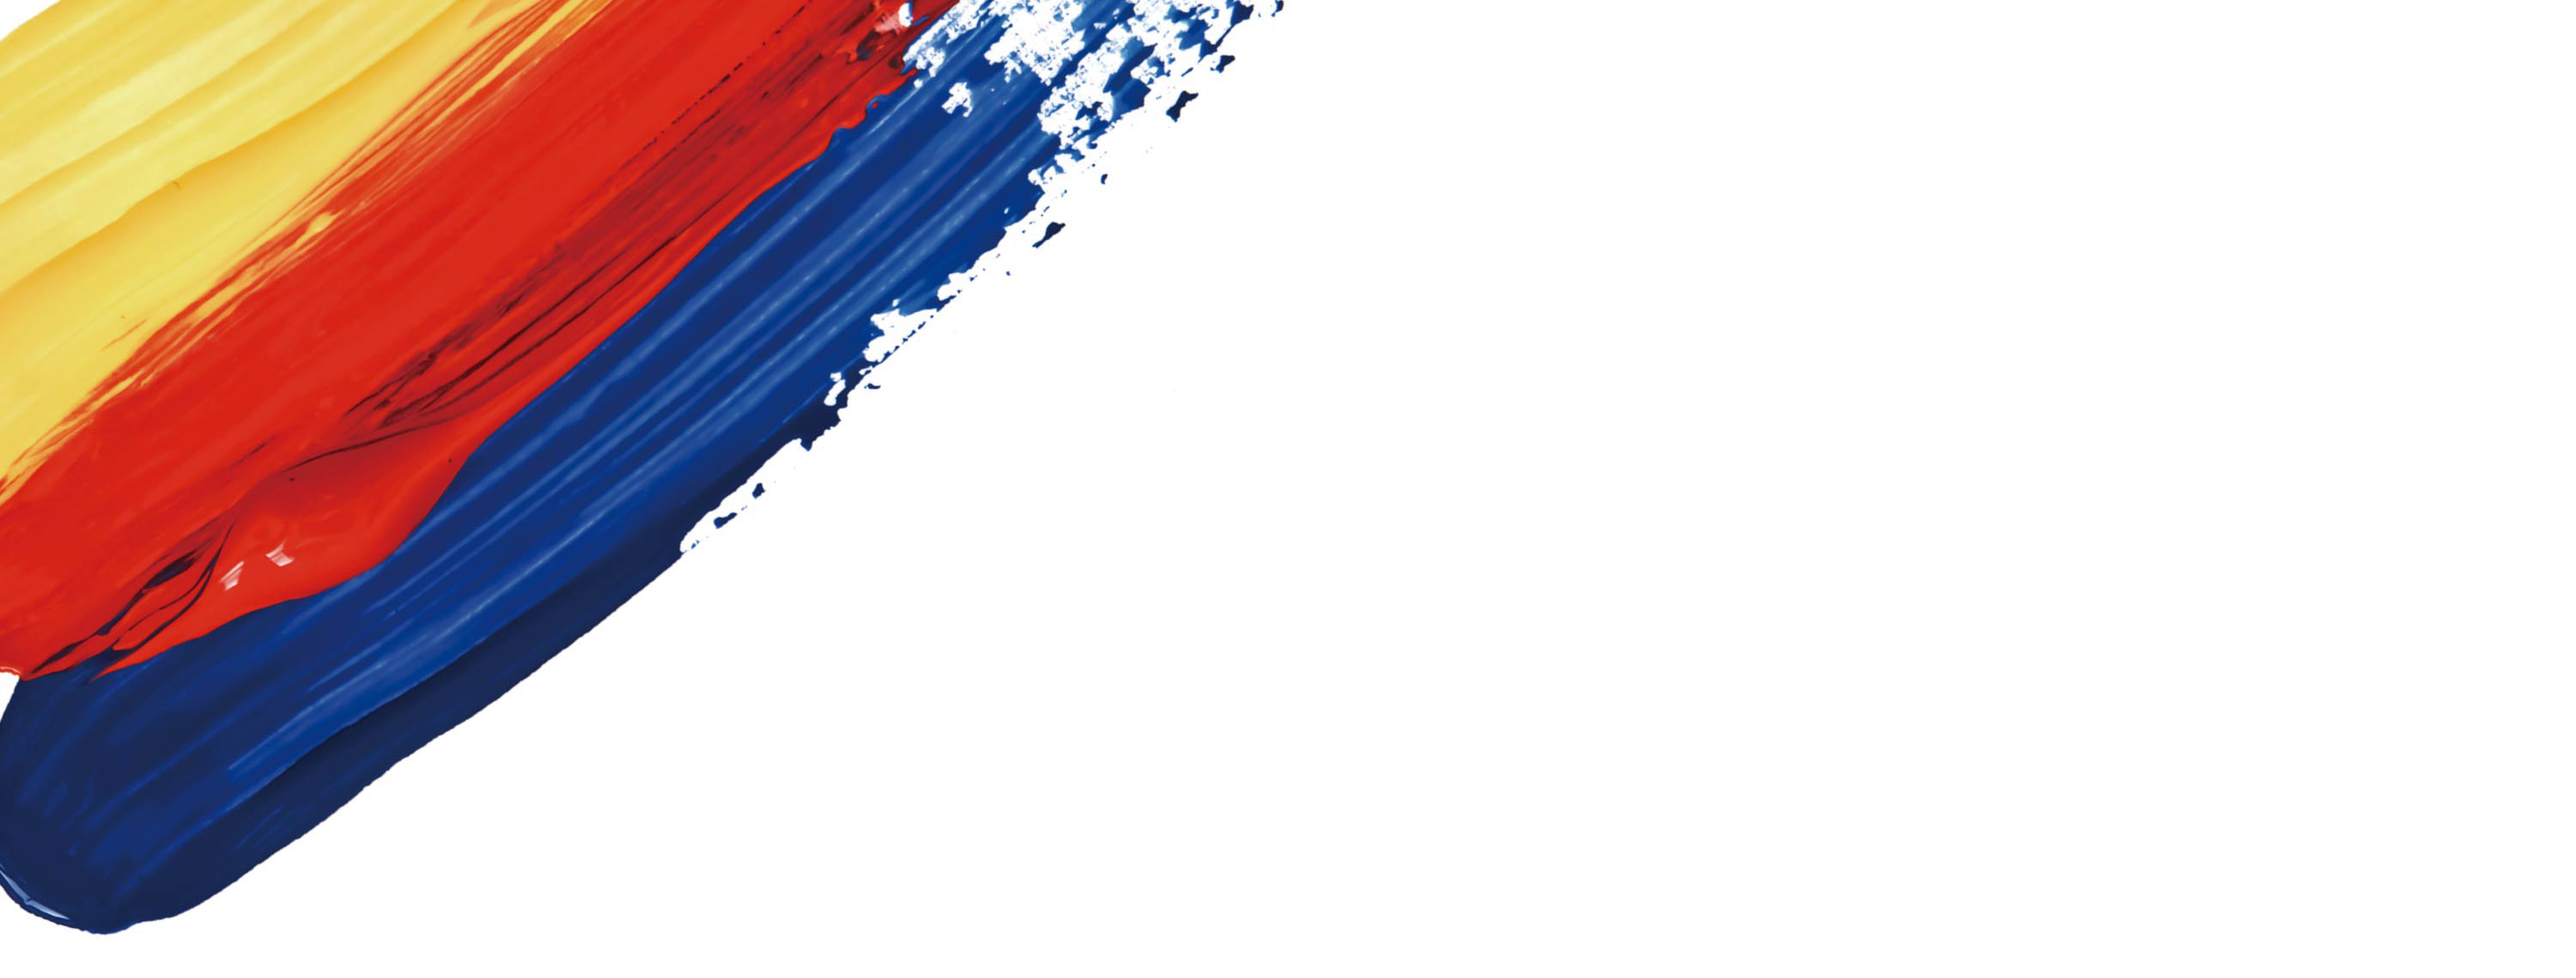
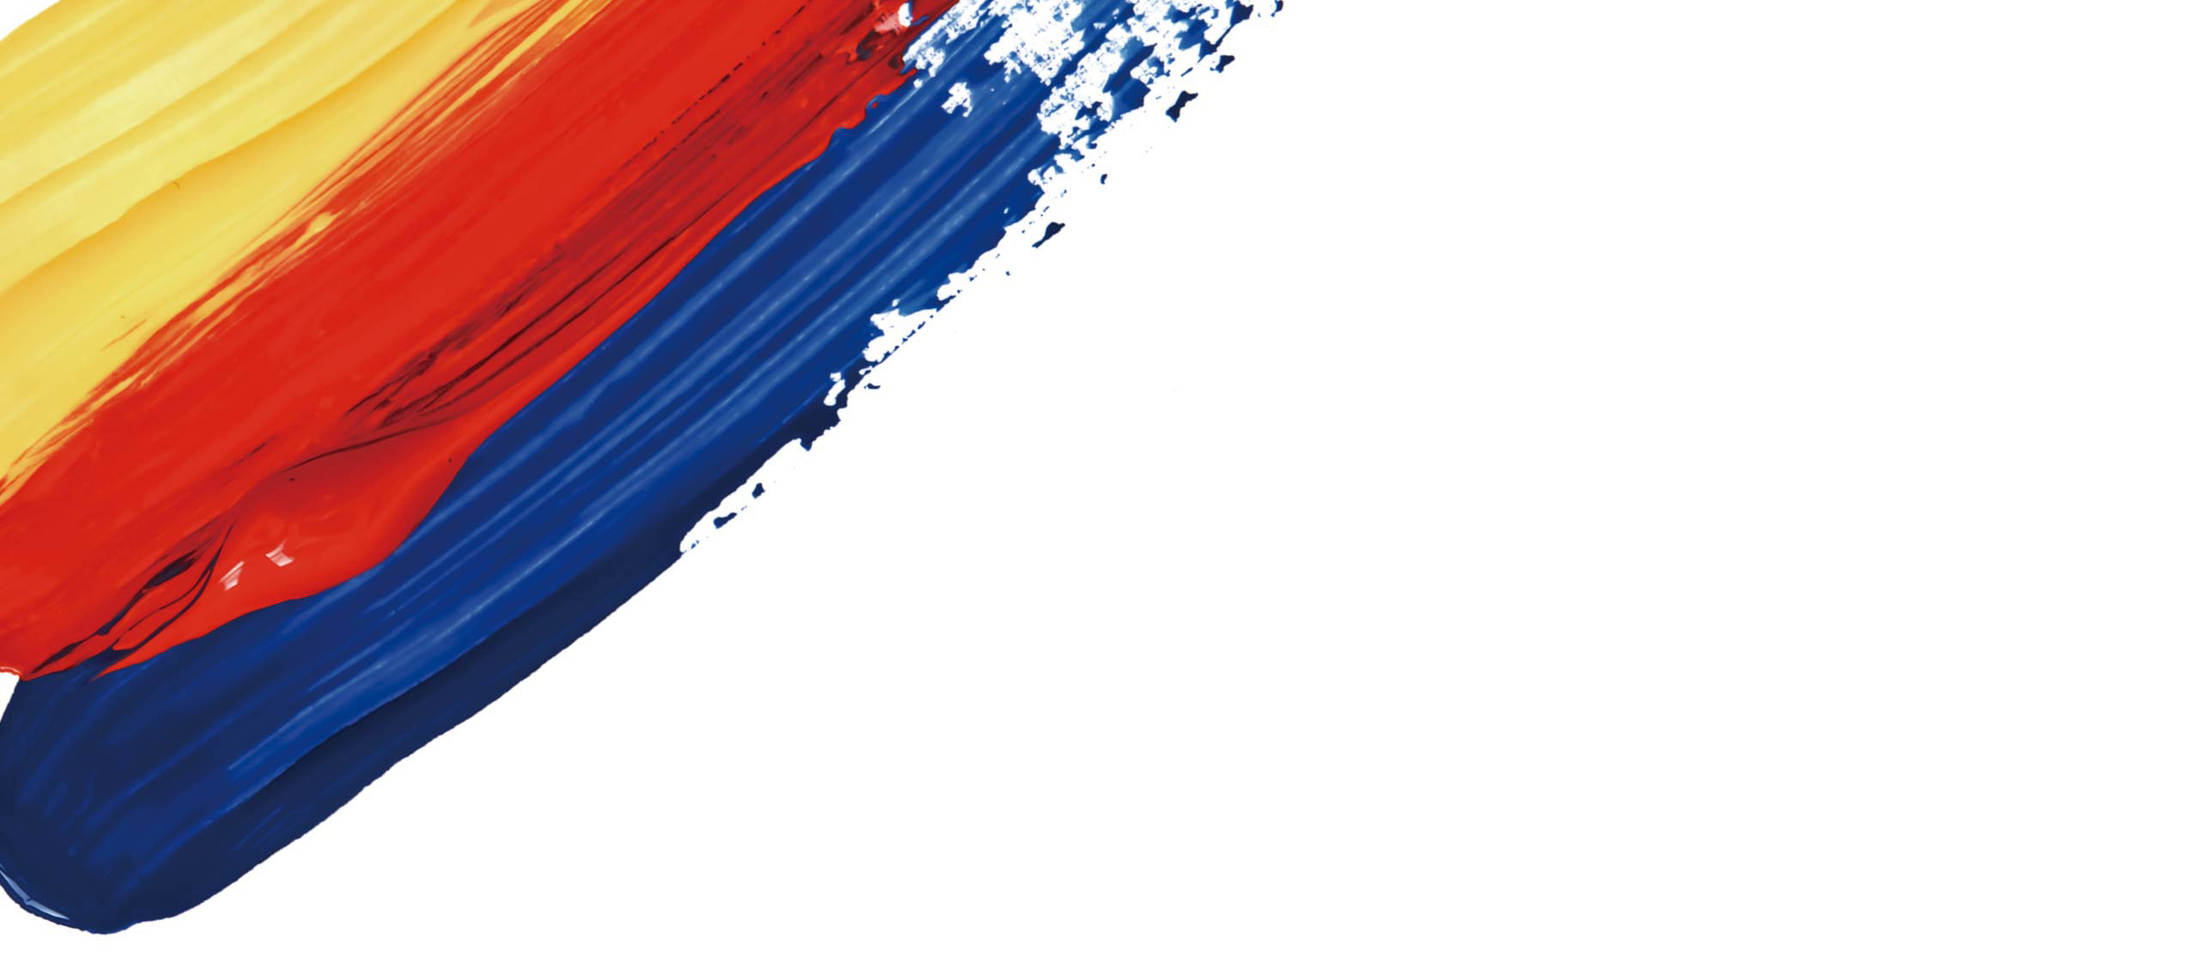
メディアクエリ実装しました。

Changed region(s): [[0.0, 0.0, 0.5886, 0.9518], [0.0, 0.0, 0.062, 0.0307], [0.0, 0.2456, 0.031, 0.2763]]

diff --git a/src/components/footer/index.tsx b/src/components/footer/index.tsx
@@ -3,31 +3,34 @@ import Image from 'next/image';
 export default function Footer() {
   return (
     <footer>
-      <div className="bg-primary p-5">
-        <div className="flex items-center">
+      <div className="bg-primary">
+        <div className="h-5"></div>
+        <div className="flex flex-wrap items-center justify-center">
           <Image
-            className="ml-auto mr-5"
+            className="my-2 mr-5"
             src="/insatsukoubou.svg"
             alt="株式会社印刷工房"
             width={220}
             height={90}
           />
-          <p className="text-s mr-auto font-serif">
-            〒501-0597 岐阜県揖斐郡大野町下磯750番地の1
-            <br />
-            TEL. 0585-36-0201 / FAX. 0585-36-0201
-          </p>
+          <div className="h-3 w-full md:hidden"></div>
+          <div className="font-serif text-sm max-sm:text-center md:text-base">
+            <p>〒501-0597 岐阜県揖斐郡大野町下磯750番地の1</p>
+            <p>TEL. 0585-36-0201 / FAX. 0585-36-0201</p>
+          </div>
         </div>
 
-        <div className="my-3 flex items-center tracking-wider">
-          <p className="ml-auto hover:opacity-70">プライバシーポリシー</p>
-          <div className="mx-4 h-4 w-[1px] bg-gray-300"></div>
+        <div className="my-3 flex items-center justify-center text-sm md:text-base md:tracking-wider">
+          <p className="hover:opacity-70">プライバシーポリシー</p>
+          <div className="w-3 md:hidden"></div>
+          <div className="mx-4 hidden h-4 w-[1px] bg-gray-300 md:block"></div>
           <p className="hover:opacity-70">中核的労働における方針声明</p>
-          <div className="mx-4 h-4 w-[1px] bg-gray-300"></div>
-          <p className="text-red mr-auto hover:opacity-70">お問い合わせ</p>
+          <div className="w-3 md:hidden"></div>
+          <div className="mx-4 hidden h-4 w-[1px] bg-gray-300 md:block"></div>
+          <p className="text-red-500 hover:opacity-70">お問い合わせ</p>
         </div>
 
-        <div className="text-right font-serif text-xs">
+        <div className="pb-3 text-right font-serif text-xs">
           <p>
             &copy;Copyright 2024 INSATSU KOUBOU Co.,Ltd. All rights reserved.
           </p>

diff --git a/src/components/nav/circleLists/index.tsx b/src/components/nav/circleLists/index.tsx
@@ -6,12 +6,12 @@ export default function CircleLists() {
   return (
     <>
       <div className="-z-49 bg-white">
-        <div className="flex shrink-0 flex-wrap items-center">
-          <div className="ml-auto"></div>
+        <div className="flex shrink-0 flex-wrap items-center justify-center">
+          zw
           {SERVICE_MENUS.map((serviceMenu) => {
             return (
               <div
-                className="relative ml-[-30px] h-[240px] w-[240px]"
+                className="relative ml-[-40px] h-[160px] w-[160px] md:h-[200px] md:w-[200px] lg:ml-[-30px] lg:h-[240px] lg:w-[240px]"
                 key={serviceMenu.id}
               >
                 <Image
@@ -21,16 +21,14 @@ export default function CircleLists() {
                   height={240}
                   alt={serviceMenu.alt}
                 />
-                <p className="absolute left-2/4 top-2/4 translate-x-[-50%] translate-y-[-50%] text-center text-3xl text-white drop-shadow-2xl">
+                <p className="absolute left-2/4 top-2/4 translate-x-[-50%] translate-y-[-50%] text-center text-xl text-white drop-shadow-md md:text-2xl lg:text-3xl lg:drop-shadow-2xl">
                   {serviceMenu.title}
                 </p>
               </div>
             );
           })}
-          <div className="ml-5 mr-auto w-32 text-sm">
-            <ServiceIntroduction />
-          </div>
         </div>
+        <ServiceIntroduction />
       </div>
     </>
   );

diff --git a/src/components/main/catchText/index.tsx b/src/components/main/catchText/index.tsx
@@ -1,15 +1,19 @@
 export default function TopText() {
   return (
     <>
-      <div className="h-3/4 bg-gradient-to-t from-primary">
-        <div className="px-16 pb-5 pt-96 font-serif text-4xl font-medium text-secondary drop-shadow-3xl">
+      <div className="bg-gradient-to-t from-primary">
+        <div className="px-6 pb-5 pt-56 font-serif text-3xl font-medium text-secondary drop-shadow-3xl md:pt-96 lg:px-16 lg:text-4xl">
           <div className="flex flex-wrap justify-end">
-            <p className="p-3 tracking-wide">お客さまとの</p>
-            <p className="p-3 tracking-tight">“つながり”を大切に、</p>
+            <p className="p-1 tracking-wide md:p-3">お客さまとの</p>
+            <div className="w-full md:hidden"></div>
+            <p className="p-1 tracking-tight md:p-3">“つながり”を大切に、</p>
           </div>
           <div className="flex flex-wrap justify-end">
-            <p className="p-3 tracking-wider">お客さまの</p>
-            <p className="p-3 tracking-tighter">“想い”を「カタチ」にする</p>
+            <p className="p-1 tracking-widest md:p-3">お客さまの</p>
+            <div className="w-full md:hidden"></div>
+            <p className="p-1 tracking-tighter md:p-3">
+              “想い”を「カタチ」にする
+            </p>
           </div>
         </div>
       </div>

diff --git a/src/components/nav/serviceIntroduction/index.tsx b/src/components/nav/serviceIntroduction/index.tsx
@@ -1,11 +1,13 @@
 export default function ServiceIntroduction() {
   return (
-    <>
-      <p>
-        「企画・立案」「発送などの請負業務」「アンケート発送・集計業務」など、
-        豊かな経験と実績を元にあらゆるニーズに対応いたします。
-      </p>
+    <div className="flex flex-wrap items-center justify-center pt-4 text-sm md:pt-6 md:text-base">
+      <p>「企画・立案」「発送などの請負業務」</p>
+      <div className="w-full md:hidden"></div>
+      <p>「アンケート発送・集計業務」など、</p>
+      <div className="w-full"></div>
+      <p>豊かな経験と実績を元にあらゆるニーズに対応いたします。</p>
+      <div className="w-full"></div>
       <p>お気軽にご相談ください。</p>
-    </>
+    </div>
   );
 }

diff --git a/src/components/otherTopics/greetingFromPresident/index.tsx b/src/components/otherTopics/greetingFromPresident/index.tsx
@@ -1,10 +1,10 @@
 export default function GreetingFromPresident() {
   return (
     <>
-      <div className="relative h-[146px] w-[290px] shrink-0 items-center bg-[url('/greetingsFromPresident.jpg')] hover:opacity-70">
+      <div className="relative h-[120px] w-[225px] shrink-0 items-center bg-[url('/greetingsFromPresident.jpg')] hover:opacity-70 md:h-[146px] md:w-[290px]">
         <div className="absolute left-2/4 top-2/4 mx-auto translate-x-[-50%] translate-y-[-50%] text-center text-white">
-          <p className="text-2xl font-semibold">ごあいさつ</p>
-          <p className="text-xl font-medium">社長挨拶</p>
+          <p className="text-xl font-semibold md:text-2xl">ごあいさつ</p>
+          <p className="text-base font-medium md:text-xl">社長挨拶</p>
         </div>
       </div>
     </>

diff --git a/src/components/otherTopics/information/informationEntry/index.tsx b/src/components/otherTopics/information/informationEntry/index.tsx
@@ -2,14 +2,16 @@ import { INFORMATION_ENTRY } from '@/constants/informationEntry';
 
 export default function InformationEntry() {
   return (
-    <div className="m-0 h-[140px] w-[380px] bg-primary">
+    <div className="m-0 h-[80px] w-[300px] bg-primary md:h-[100px] md:w-[380px]">
       {INFORMATION_ENTRY.map((informationEntry) => {
         return (
           <div key={informationEntry.id}>
-            <p className="pl-2 pt-1 text-sm text-secondary">
+            <p className="pl-2 pt-1 text-xs text-secondary md:text-sm">
               {informationEntry.date}
             </p>
-            <p className="text-md pb-1 pl-2">{informationEntry.title}</p>
+            <p className="pb-1 pl-2 text-sm md:text-base">
+              {informationEntry.title}
+            </p>
           </div>
         );
       })}

diff --git a/src/components/otherTopics/companyHistory/index.tsx b/src/components/otherTopics/companyHistory/index.tsx
@@ -1,10 +1,10 @@
 export default function CompanyHistory() {
   return (
     <>
-      <div className="relative h-[146px] w-[290px] shrink-0 items-center bg-[url('/companyHistory.jpg')] hover:opacity-70">
+      <div className="relative h-[120px] w-[225px] shrink-0 items-center bg-[url('/companyHistory.jpg')] hover:opacity-70 md:h-[146px] md:w-[290px]">
         <div className="absolute left-2/4 top-2/4 mx-auto translate-x-[-50%] translate-y-[-50%] text-center text-white">
-          <p className="text-2xl font-semibold">70年の歩み</p>
-          <p className="text-xl font-medium">沿革</p>
+          <p className="text-xl font-semibold md:text-2xl">70年の歩み</p>
+          <p className="text-base font-medium md:text-xl">沿革</p>
         </div>
       </div>
     </>

diff --git a/src/components/nav/workFlow/index.tsx b/src/components/nav/workFlow/index.tsx
@@ -1,9 +1,11 @@
 export default function WorkFlow() {
   return (
     <>
-      <div className="mx-auto my-10 h-[100px] w-[583px] bg-secondary bg-[url('/workFlow.jpg')] hover:opacity-70">
+      <div className="mx-auto my-10 h-[87px] w-[450px] bg-secondary bg-[url('/workFlow.jpg')] hover:opacity-70 md:h-[100px] md:w-[583px]">
         <div className="px-5">
-          <p className="pt-3 text-5xl font-semibold text-white">Work + Flow</p>
+          <p className="pt-3 text-3xl font-semibold text-white md:text-5xl">
+            Work + Flow
+          </p>
           <p className="text-lg text-white">印刷工房のモノづくり</p>
         </div>
       </div>

diff --git a/src/components/nav/navTopText/index.tsx b/src/components/nav/navTopText/index.tsx
@@ -1,8 +1,9 @@
 export default function NavTopText() {
   return (
-    <div className="m-0 bg-white p-6 text-center text-2xl font-semibold text-secondary">
+    <div className="m-0 bg-white p-6 text-center text-2xl text-xl font-semibold text-secondary md:text-2xl">
       <p>確かな技術と感性によるモノづくり。</p>
-      <p>信頼を「カタチ」にすることが、いつの時代も変わらぬ誇りです。</p>
+      <p>信頼を「カタチ」にすることが、</p>
+      <p>いつの時代も変わらぬ誇りです。</p>
     </div>
   );
 }

diff --git a/src/components/header/index.tsx b/src/components/header/index.tsx
@@ -12,7 +12,7 @@ export default function Header() {
             width={220}
             height={90}
           />
-          <ol className="ml-auto flex list-none items-center justify-end space-x-3 pr-4 text-white">
+          <ol className="ml-auto flex list-none items-center justify-end space-x-2 pr-1 text-xs text-white md:space-x-4 md:pr-4 md:text-base">
             <li className="hover:text-danger hover:opacity-50">会社案内</li>
             <li className="hover:text-danger hover:opacity-50">
               製品・サービス

diff --git a/src/components/main/top-image/index.tsx b/src/components/main/top-image/index.tsx
@@ -3,11 +3,11 @@ import Image from 'next/image';
 export default function TopPic() {
   return (
     <>
-      <div className="fixed -z-50 w-fit shrink-0">
+      <div className="fixed -z-50 w-max shrink-0 max-md:w-fit max-md:translate-y-[10%]">
         <Image
           src="/high-quality-printing.jpg"
           alt="高品質な印刷を提供。職人がお届けする、美しい製品。"
-          width={1400}
+          width={1000}
           height={800}
           priority={true}
         />

diff --git a/src/constants/informationEntry.ts b/src/constants/informationEntry.ts
@@ -2,11 +2,6 @@ export const INFORMATION_ENTRY = [
   {
     id: 1,
     title: '会社HPをリニューアルしました',
-    date: '2024/01/01',
-  },
-  {
-    id: 2,
-    title: '現在、一覧はmap関数にて作成',
-    date: '2024/06/01',
+    date: '2025/01/01',
   },
 ] as const;
